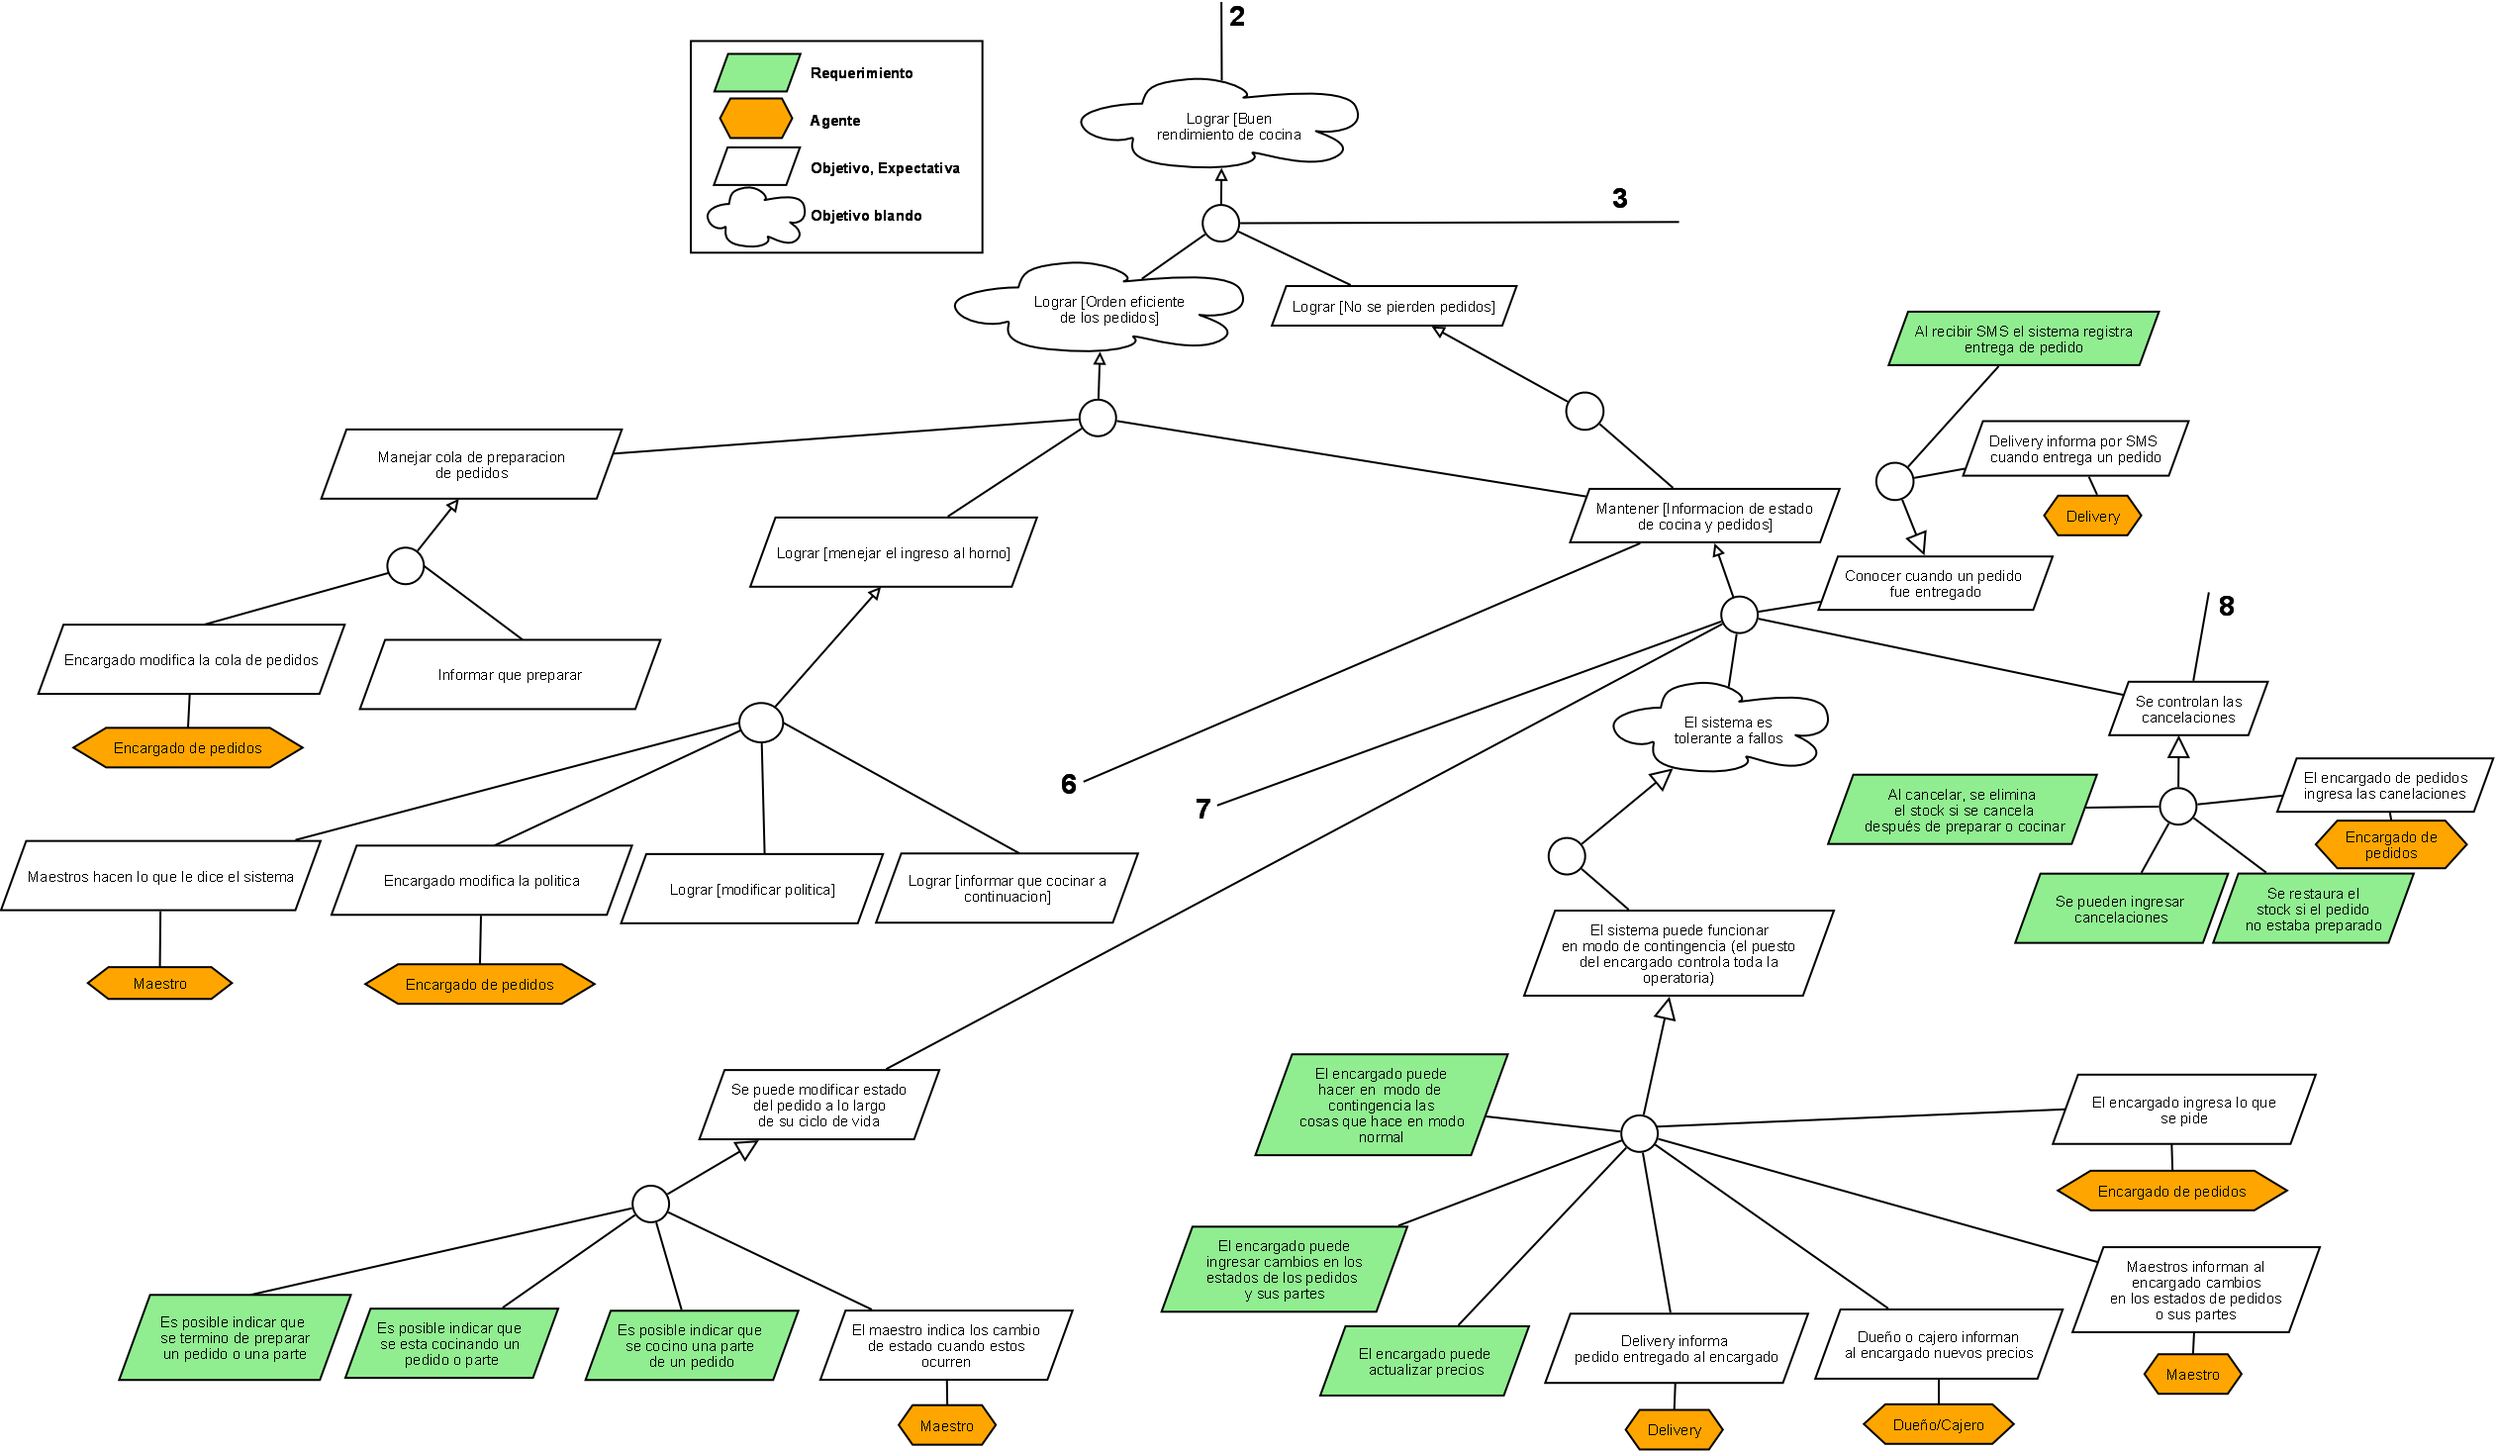
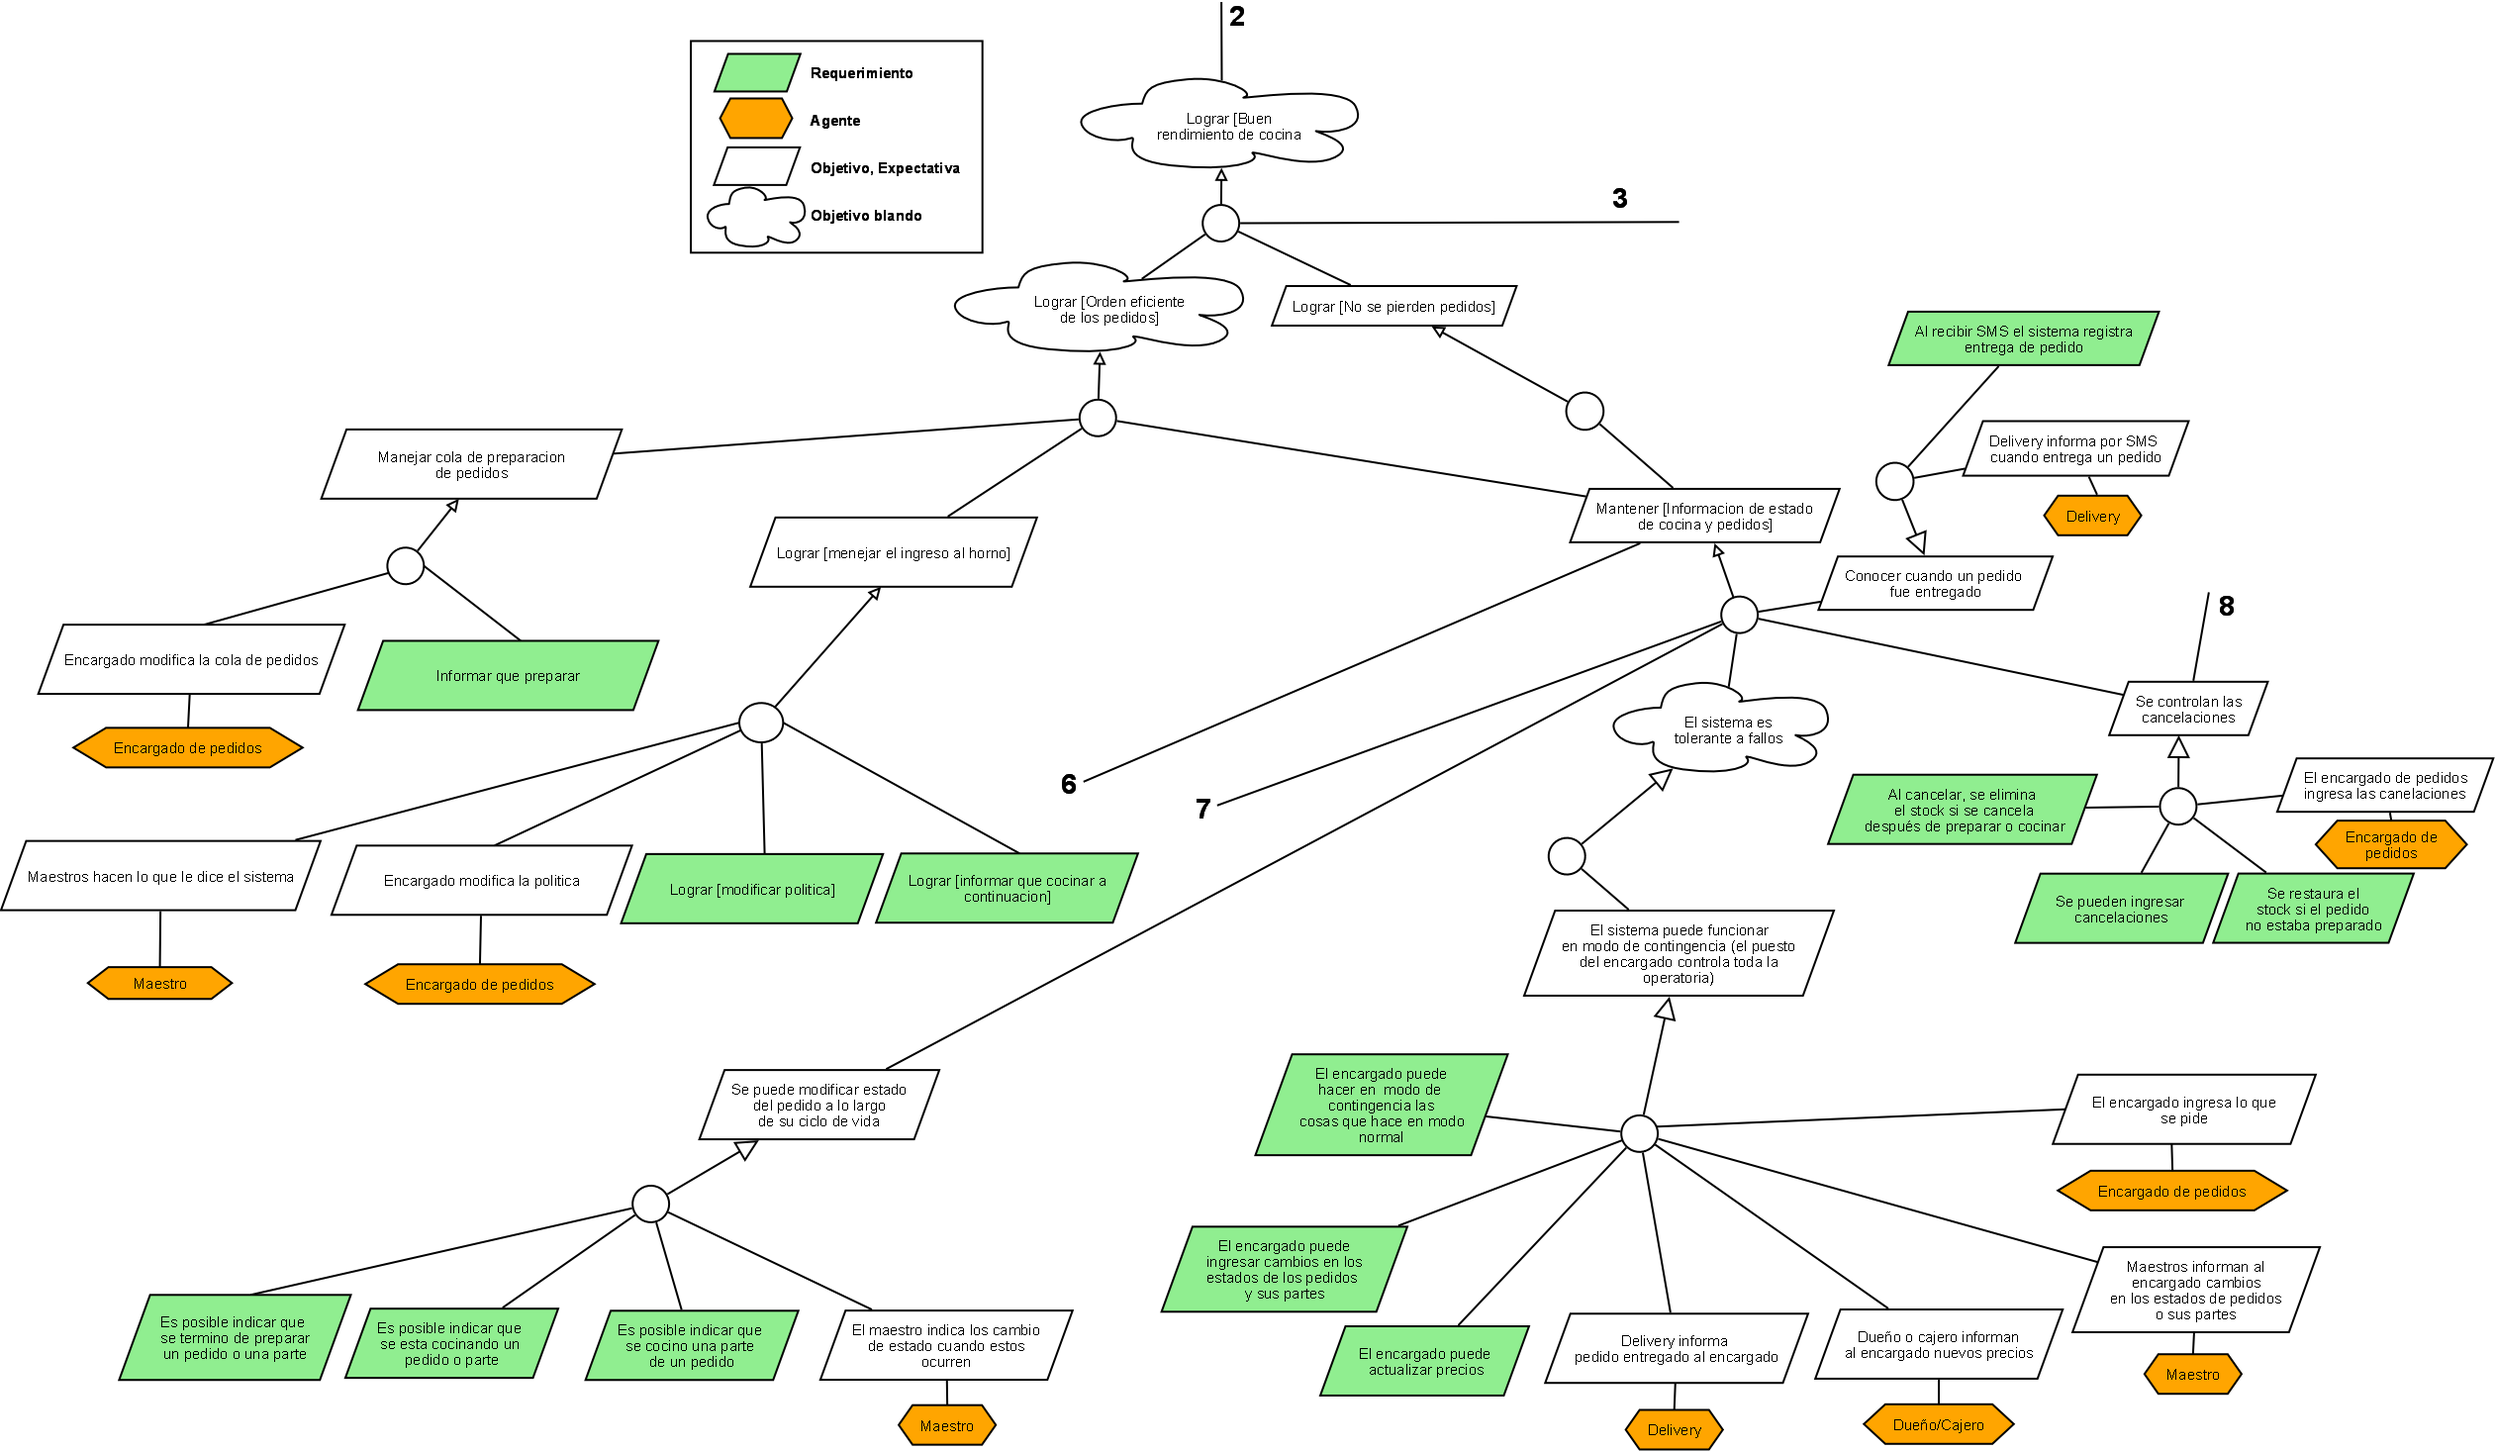
agregados unos requerimientos que checho se comio del diagrama matriz de trazabilidad

Changed region(s): [[0.2474, 0.5832, 0.4639, 0.6446], [0.1237, 0.4297, 0.2784, 0.4911]]

diff --git a/tp1/informe/TODOs.tex b/tp1/informe/TODOs.tex
@@ -54,7 +54,7 @@
 \end{center}
 
 \newcommand{\tick}[0]{{\textcolor{Green}{$\checkmark$}}}
-\newcommand{\unresolved}[0]{{\textcolor{VioletRed}{$\chi$}}}
+\newcommand{\unresolved}[0]{{\textcolor{Bittersweet}{$\chi$}}}
 \newcommand{\dudoso}[0]{{\textcolor{SkyBlue}{\textbf{$?$}}}}
 Por favor no borrar los todos ya resueltos, colorearlos o marcarlos con \tick.
 
@@ -63,7 +63,7 @@ Si se revisa un todo y no se pudo resolver marcarlo con \unresolved
 Si se revisa pero se tienen serias dudas sobre lo realizado marcar con \dudoso
 
 
-
+{\color{OrangeRed}
 \textcolor{Peach}{\huge{Diagrama de objetivos}}
 \begin{itemize}
 \item cambiar cuadradito de mozo con PDA por ``atender pedidos de mozos con PDA'' y encajarselo al mozo (requerimiento nuevo: poder recibir los pedidos de los mozos) \tick
@@ -129,5 +129,5 @@ Si se revisa pero se tienen serias dudas sobre lo realizado marcar con \dudoso
 \item Agregar caso de uso Cerrando cuenta mesa vinculado a Mozo (tener en cuenta que lo hace desde la PDA y pregunta como va a pagar)
 \item Consultar si deberiamos sacar el CU Modificando politica de horno
 \end{itemize}
-
+}
 \end{document}
